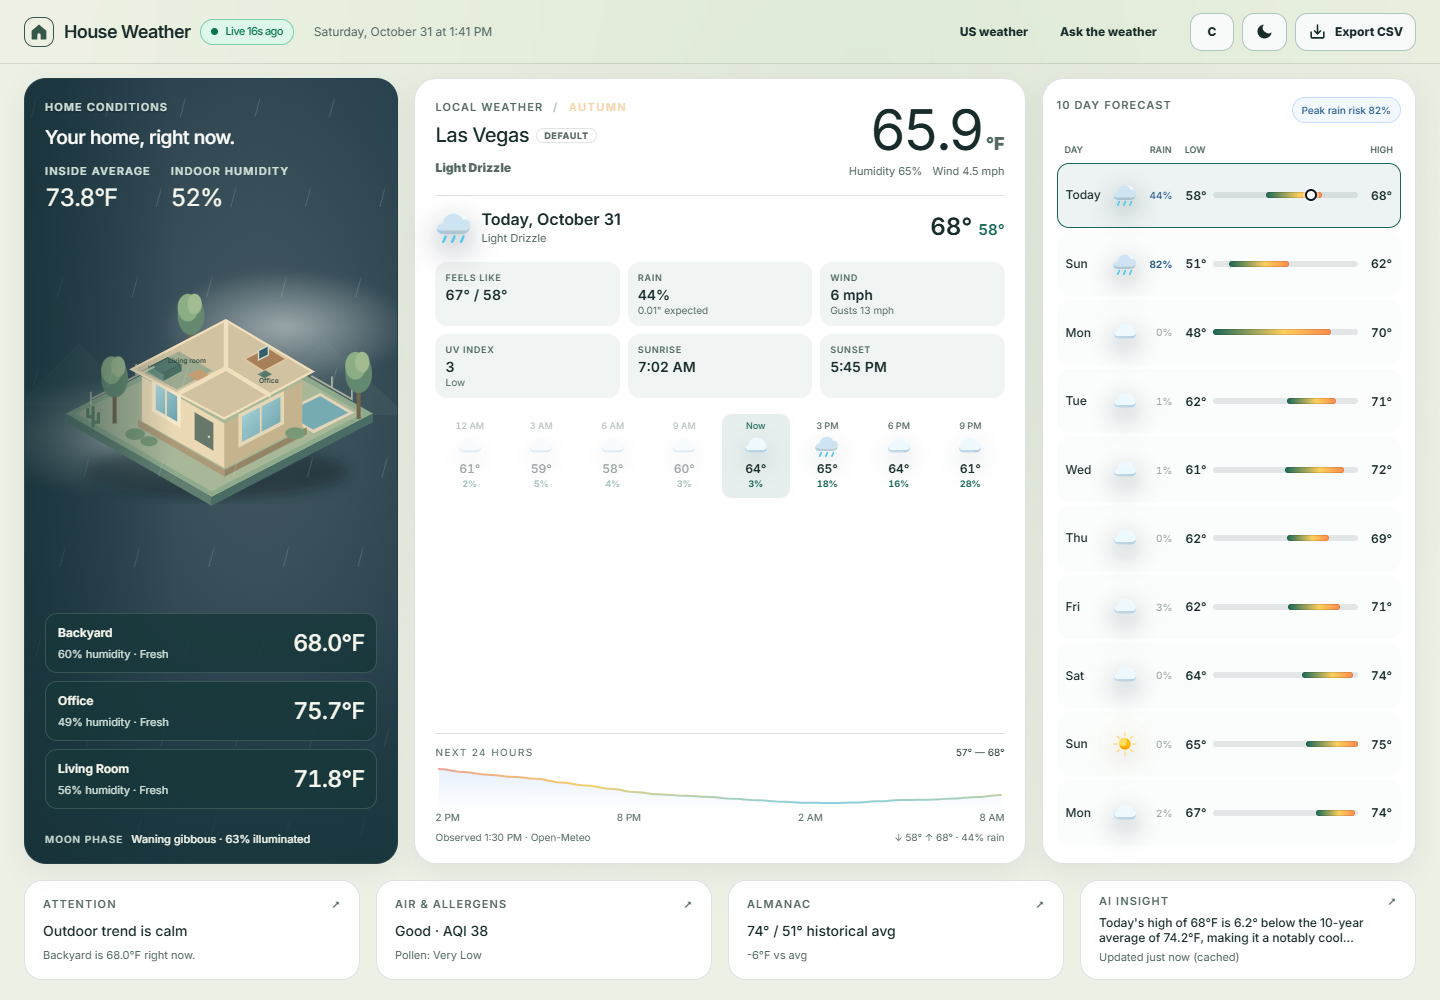
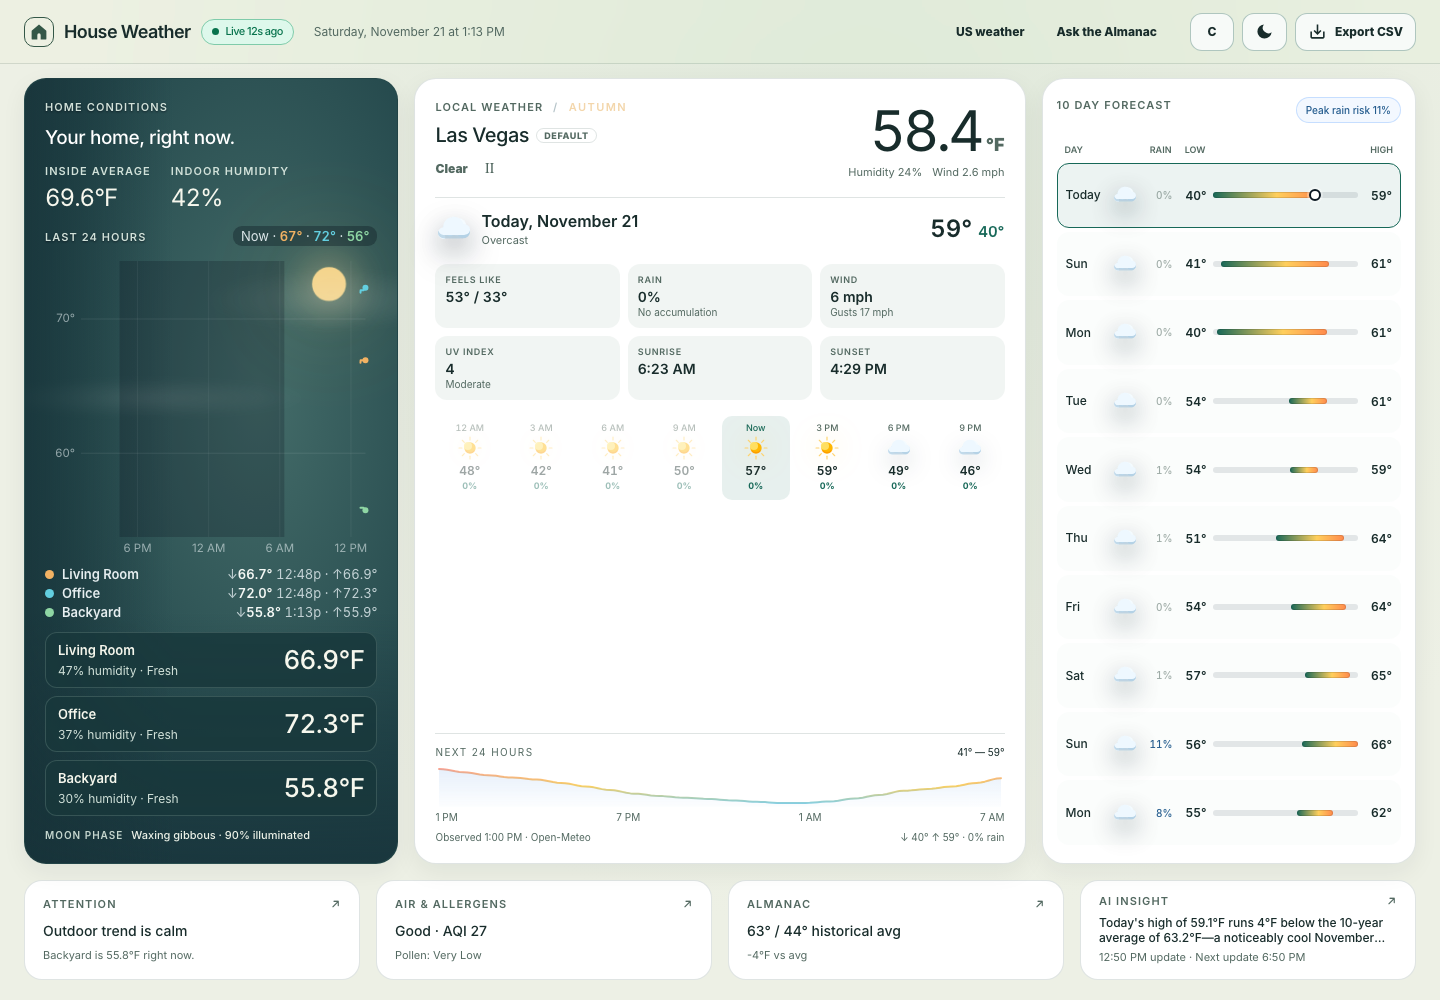
Refresh interface screenshots and clean up the test suite
Screenshots: recapture the desktop dark/light and mobile overview shots
from the current layout (live weather scene plus 24-hour sensor history;
the retired isometric house is gone). README caption updated.

Test suite: all 16 regression modules stay - they guard live behavior.
Fixes so the suite is hermetic and portable:
- test_desktop_overview: fulfill the same-origin /api/forecast proxy with
  the offline fixture (the browser no longer fetches Open-Meteo
  directly), fixing the eight setUp timeouts.
- test_house_atmosphere: UV assertions use text_content because the UV
  nodes are hidden in the overview (inner_text returns ''); test
  screenshots go to a temp dir instead of docs/.
- test_pollen_api / test_security_resilience: isolate the pollen disk
  cache and budget paths per test so a developer's persisted cache
  cannot turn fresh-fetch assertions into cache hits.
- Browser channel overridable via BROWSER_CHANNEL (msedge default kept
  for Windows); Windows-only screenshot/output paths replaced with
  portable temp dirs.
- Remove tools/check_weather_panel.py, a one-off Codex visualization
  dump with hardcoded Windows paths, superseded by the acceptance suite.

Assets: serve the manifest's android-chrome icons and the apple-touch
icon (copied into the image but missing from the STATIC_FILES allowlist,
so PWA icons 404ed); link apple-touch-icon from index.html. Delete
byte-identical duplicate favicons and the unused site.webmanifest from
[…]

diff --git a/index.html b/index.html
@@ -8,6 +8,7 @@
   <title>House Weather</title>
 
   <link rel="icon" type="image/png" sizes="32x32" href="favicon-32x32.png">
+  <link rel="apple-touch-icon" href="favicon/apple-touch-icon.png">
   <link rel="manifest" href="manifest.json">
   <link rel="preconnect" href="https://api.open-meteo.com" crossorigin>
   <link rel="preconnect" href="https://api.weather.gov" crossorigin>

diff --git a/test_house_atmosphere.py b/test_house_atmosphere.py
@@ -1,5 +1,6 @@
 """Acceptance checks for the house scene; forecast data is an offline fixture."""
 import os
+import tempfile
 import unittest
 from pathlib import Path
 from playwright.sync_api import sync_playwright
@@ -7,12 +8,14 @@ from playwright.sync_api import sync_playwright
 class HouseAtmosphereTests(unittest.TestCase):
     def test_live_scene_controls_and_responsive_layout(self):
         with sync_playwright() as p:
-            browser=p.chromium.launch(channel='msedge',headless=True)
+            browser=p.chromium.launch(channel=os.environ.get('BROWSER_CHANNEL', 'msedge'),headless=True)
             page=browser.new_page(viewport={'width':1440,'height':1200},reduced_motion='reduce',service_workers='block')
             page.route('https://**/*',lambda r:r.abort())
             page.route('**/api/readings*',lambda r:r.abort())
             page.route('**/api/history*',lambda r:r.abort())
+            page.route('**/api/forecast*',lambda r:r.abort())
             page.route('**/api/almanac/insights*',lambda r:r.fulfill(json={'insights':[]}))
+            page.route('**/api/forecast*',lambda r:r.abort())
             page.goto(os.environ.get('DASHBOARD_TEST_URL', 'http://localhost:8000') + '/?scene=snow&time=night',wait_until='domcontentloaded')
             page.evaluate('''() => {
               _lastWeather={lat:36.17,lon:-115.14,data:{timezone:'America/Los_Angeles',current:{weathercode:0,is_day:0}}};
@@ -44,30 +47,31 @@ class HouseAtmosphereTests(unittest.TestCase):
                         self.assertFalse(a['x']<b['x']+b['w'] and b['x']<a['x']+a['w'] and a['y']<b['y']+b['h'] and b['y']<a['y']+a['h'],f'Overlapping markers at {width}')
             page.set_viewport_size({'width':1440,'height':1200})
             page.evaluate("document.documentElement.dataset.theme='dark';window.scrollTo(0,0);document.querySelectorAll('.skeleton').forEach(e=>e.classList.remove('skeleton'));document.getElementById('weatherTemp').textContent='87.9';document.getElementById('weatherLocation').textContent='Las Vegas';document.getElementById('weatherCondition').textContent='Rain';")
-            Path('docs').mkdir(exist_ok=True)
-            page.screenshot(path='docs/house-atmosphere-desktop.png')
+            shots = Path(tempfile.mkdtemp(prefix='govee-atmosphere-'))
+            page.screenshot(path=str(shots / 'house-atmosphere-desktop.png'))
             page.set_viewport_size({'width':390,'height':1500})
             page.evaluate('window.scrollTo(0,0)')
-            page.screenshot(path='docs/house-atmosphere-mobile.png')
+            page.screenshot(path=str(shots / 'house-atmosphere-mobile.png'))
             browser.close()
 
     def test_uv_uses_local_current_hour_and_preserves_missing_values(self):
         with sync_playwright() as p:
-            browser=p.chromium.launch(channel='msedge',headless=True)
+            browser=p.chromium.launch(channel=os.environ.get('BROWSER_CHANNEL', 'msedge'),headless=True)
             page=browser.new_page(service_workers='block')
             page.route('https://**/*',lambda r:r.abort())
             page.route('**/api/almanac/insights*',lambda r:r.fulfill(json={'insights':[]}))
+            page.route('**/api/forecast*',lambda r:r.abort())
             page.goto(os.environ.get('DASHBOARD_TEST_URL', 'http://localhost:8000'),wait_until='domcontentloaded')
             fixture={'timezone':'America/Los_Angeles','current':{'time':'2026-10-09T10:00'},'hourly':{'time':['2026-10-09T11:00','2026-10-09T12:00','2026-10-09T13:00'],'uv_index':[2,6.4,8]},'daily':{'uv_index_max':[9]}}
             page.evaluate('(data)=>renderSunUv(data,new Date("2026-10-09T19:15:00Z"))',fixture)
-            self.assertEqual(page.locator('#sunUvValue').inner_text(),'6.4')
-            self.assertIn('High',page.locator('#sunUvLevel').inner_text())
+            self.assertEqual(page.locator('#sunUvValue').text_content(),'6.4')
+            self.assertIn('High',page.locator('#sunUvLevel').text_content())
             fixture['hourly']['uv_index'][1]=0
             page.evaluate('(data)=>renderSunUv(data,new Date("2026-10-09T19:15:00Z"))',fixture)
-            self.assertEqual(page.locator('#sunUvValue').inner_text(),'0.0')
+            self.assertEqual(page.locator('#sunUvValue').text_content(),'0.0')
             fixture['hourly']['uv_index'][1]=None
             page.evaluate('(data)=>renderSunUv(data,new Date("2026-10-09T19:15:00Z"))',fixture)
-            self.assertEqual(page.locator('#sunUvLevel').inner_text(),'Unavailable')
+            self.assertEqual(page.locator('#sunUvLevel').text_content(),'Unavailable')
             browser.close()
 
 if __name__=='__main__':unittest.main()

diff --git a/test_dashboard_ui.py b/test_dashboard_ui.py
@@ -8,7 +8,7 @@ class DashboardUITests(unittest.TestCase):
     @classmethod
     def setUpClass(cls):
         cls.pw = sync_playwright().start()
-        cls.browser = cls.pw.chromium.launch(channel='msedge', headless=True)
+        cls.browser = cls.pw.chromium.launch(channel=os.environ.get('BROWSER_CHANNEL', 'msedge'), headless=True)
 
     @classmethod
     def tearDownClass(cls):
@@ -38,7 +38,7 @@ class DashboardUITests(unittest.TestCase):
             route.fulfill(json={'answer': '<script>test</script> Forecast fixture answer.', 'sources': [{'label': 'Open-Meteo', 'url': 'https://open-meteo.com/'}, {'label': 'Unsafe', 'url': 'javascript:alert(1)'}], 'generated_at': '2026-09-07T12:00:00Z', 'location': 'Seattle', 'unit': 'C'})
         self.page.route('**/api/weather/ask', reply)
         self.page.evaluate("_lastWeather = {lat:47.6,lon:-122.3,locName:'Seattle',usedFallback:false}; unit='C'")
-        self.page.locator('[data-weather-question]').first.click()
+        self.page.get_by_role('button', name='Umbrella tomorrow?', exact=True).click()
         self.assertEqual(self.page.locator('#weatherQuestion').input_value(), 'Will I need an umbrella tomorrow?')
         self.page.locator('#weatherAskSubmit').click()
         self.page.locator('#weatherAskResult').wait_for(state='visible')
@@ -64,10 +64,13 @@ class DashboardUITests(unittest.TestCase):
         self.page.evaluate("_lastReadings.items[0].timestamp = '2000-01-01T00:00:00Z'; renderHomeOverview()")
         self.assertEqual(self.page.locator('#overviewIndoor').inner_text(), '—')
 
-    def test_old_ai_insights_are_explicitly_labeled(self):
+    def test_old_ai_insights_show_their_original_update_time(self):
         self.page.route('**/api/almanac/insights*', lambda r: r.fulfill(json={'insights': ['Historical fixture, not current weather.'], 'cached': True, 'stale': True, 'timestamp': '2020-01-01T12:00:00'}))
         self.page.evaluate('loadAlmanacInsights()')
-        self.assertIn('Out of date', self.page.locator('#aiInsightsTimestamp').inner_text())
+        stamp = self.page.locator('#aiInsightsTimestamp').inner_text()
+        self.assertIn('Jan 1', stamp)
+        self.assertIn('update', stamp)
+        self.assertNotIn('Just now', stamp)
 
     def test_mobile_panels_fill_available_width_without_internal_overflow(self):
         self.page.set_viewport_size({'width': 390, 'height': 900})
@@ -111,7 +114,7 @@ Both days will be **below 100°F**.
                 self.page.get_by_role('button', name='Ask the Almanac', exact=True).click()
             self.assertTrue(area.evaluate('(el) => el.scrollWidth <= el.clientWidth + 1'))
             self.assertEqual(area.locator('script,img,iframe,a').count(), 0)
-        self.page.locator('#weatherAskResult').screenshot(path='C:/Users/Thomas/AppData/Local/hermes/cache/govee-answer-mobile.png')
+        self.page.locator('#weatherAskResult').screenshot(path=os.path.join(os.environ.get('TEMP') or os.environ.get('TMPDIR') or '/tmp', 'govee-answer-mobile.png'))
 
     def test_question_error_is_recoverable(self):
         self.page.route('**/api/weather/ask', lambda r: r.fulfill(status=503, json={'error': 'AI service is temporarily unavailable.'}))

diff --git a/test_desktop_overview.py b/test_desktop_overview.py
@@ -10,7 +10,7 @@ class DesktopOverviewTests(unittest.TestCase):
     @classmethod
     def setUpClass(cls):
         cls.pw = sync_playwright().start()
-        cls.browser = cls.pw.chromium.launch(channel='msedge', headless=True)
+        cls.browser = cls.pw.chromium.launch(channel=os.environ.get('BROWSER_CHANNEL', 'msedge'), headless=True)
 
     @classmethod
     def tearDownClass(cls):
@@ -38,6 +38,7 @@ class DesktopOverviewTests(unittest.TestCase):
         self.page.route('https://api.open-meteo.com/v1/forecast?*', lambda route: route.fulfill(json=weather))
         self.page.route('**/api/**', lambda route: route.fulfill(json={'items':[], 'series':{}, 'insights':[]}))
         self.page.route('**/api/readings', lambda route: route.fulfill(json=readings))
+        self.page.route('**/api/forecast*', lambda route: route.fulfill(json=weather))
         self.page.route('**/api/almanac/insights*', lambda route: route.fulfill(json={'insights':['Forecast fixture: a calm morning, warmer this afternoon.'], 'timestamp':timestamp}))
         self.page.goto(os.environ.get('DASHBOARD_TEST_URL', 'http://localhost:8000'), wait_until='domcontentloaded')
         self.page.wait_for_function("() => document.querySelectorAll('#weatherUpcoming [data-day]').length === 10 && document.querySelectorAll('.house-sensor').length === 3")

diff --git a/test_autumn_cottage.py b/test_autumn_cottage.py
@@ -6,10 +6,11 @@ from playwright.sync_api import sync_playwright
 class SeasonalWeatherTests(unittest.TestCase):
     def test_conditions_seasons_motion_and_responsive_layout(self):
         with sync_playwright() as p:
-            browser = p.chromium.launch(channel='msedge', headless=True)
+            browser = p.chromium.launch(channel=os.environ.get('BROWSER_CHANNEL', 'msedge'), headless=True)
             page = browser.new_page(viewport={'width':1440,'height':1100}, service_workers='block')
             page.route('https://**/*', lambda r:r.abort())
             page.route('**/api/almanac/insights*', lambda r:r.fulfill(json={'insights':[]}))
+            page.route('**/api/forecast*', lambda r:r.abort())
             page.goto(os.environ.get('DASHBOARD_TEST_URL', 'http://localhost:8000'), wait_until='domcontentloaded')
             for code, scene in [(0,'clear'),(3,'cloud'),(45,'fog'),(63,'rain'),(73,'snow'),(85,'snow'),(86,'snow'),(95,'storm')]:
                 page.evaluate('(code)=>applyWeatherScene(code, {}, {is_day:1,time:"2026-09-23T12:00"})', code)

diff --git a/test_pollen_api.py b/test_pollen_api.py
@@ -1,5 +1,6 @@
 import os
 import sys
+import tempfile
 import types
 import unittest
 from unittest.mock import Mock, patch
@@ -34,6 +35,16 @@ class PollenApiTests(unittest.TestCase):
         govee_server._pollen_cache.clear()
         govee_server._pollen_request_times.clear()
         govee_server._pollen_client_requests.clear()
+        # The pollen disk cache and budget persist across restarts; keep tests
+        # off whatever the developer's data directory happens to contain.
+        self._tmp = tempfile.TemporaryDirectory()
+        self.addCleanup(self._tmp.cleanup)
+        for name, filename in (("_pollen_disk_cache_path", "pollen-cache.json"),
+                               ("_pollen_budget_path", "pollen-budget.json")):
+            patcher = patch.object(govee_server, name, os.path.join(self._tmp.name, filename))
+            patcher.start()
+            self.addCleanup(patcher.stop)
+        govee_server._pollen_inflight.clear()
 
     def test_requires_server_api_key(self):
         with patch.dict(os.environ, {}, clear=False):

diff --git a/test_weather_alert_layout.py b/test_weather_alert_layout.py
@@ -6,10 +6,11 @@ from playwright.sync_api import sync_playwright
 class WeatherAlertLayoutTests(unittest.TestCase):
  def test_warning_text_stays_inside_panels(self):
   with sync_playwright() as p:
-   browser=p.chromium.launch(channel='msedge',headless=True)
+   browser=p.chromium.launch(channel=os.environ.get('BROWSER_CHANNEL', 'msedge'),headless=True)
    page=browser.new_page(viewport={'width':1440,'height':1200},reduced_motion='reduce',service_workers='block')
    page.route('https://**/*',lambda r:r.abort())
    page.route('**/api/almanac/insights*',lambda r:r.fulfill(json={'insights':[]}))
+   page.route('**/api/forecast*',lambda r:r.abort())
    page.goto(os.environ.get('DASHBOARD_TEST_URL', 'http://localhost:8000'),wait_until='domcontentloaded')
    page.evaluate('''() => {
     const root=document.getElementById('weatherAlerts');root.replaceChildren();

diff --git a/check_dashboard_layout.py b/check_dashboard_layout.py
@@ -1,12 +1,15 @@
 """Real browser layout/interaction checks; no mocked telemetry or AI calls."""
 import json
+import os
+import tempfile
 from pathlib import Path
 from playwright.sync_api import sync_playwright
 
-out = Path('C:/Users/Thomas/AppData/Local/hermes/cache/govee-review')
+out = Path(tempfile.mkdtemp(prefix='govee-layout-'))
+print(f'Layout screenshots: {out}')
 out.mkdir(parents=True, exist_ok=True)
 with sync_playwright() as p:
-    browser = p.chromium.launch(channel='msedge', headless=True)
+    browser = p.chromium.launch(channel=os.environ.get('BROWSER_CHANNEL', 'msedge'), headless=True)
     context = browser.new_context(service_workers='block', reduced_motion='reduce')
     page = context.new_page()
     errors = []

diff --git a/test_security_resilience.py b/test_security_resilience.py
@@ -73,6 +73,7 @@ class ResilienceTests(unittest.TestCase):
             "INSIGHTS_CACHE_FILE": str(self.directory / "insights.json"),
             "_insights_budget_path": str(self.directory / "insights-budget.json"),
             "_pollen_budget_path": str(self.directory / "pollen-budget.json"),
+            "_pollen_disk_cache_path": str(self.directory / "pollen-cache.json"),
             "_insights_active": False, "_insights_error": None, "_insights_attempts": deque(),
             "_pollen_request_times": deque(), "_pollen_cache": {}, "_pollen_inflight": set(), "_pollen_client_requests": {},
             "_readings_cache": None, "_readings_refreshing": False, "_readings_last_attempt": float("-inf"),

diff --git a/govee_server.py b/govee_server.py
@@ -100,6 +100,8 @@ register_weather_questions(app, ANTHROPIC_MODEL, os.path.join(DATA_DIR, "almanac
 STATIC_FILES = {
     "index.html", "app.js", "style.css", "service-worker.js", "manifest.json",
     "favicon.ico", "favicon-16x16.png", "favicon-32x32.png",
+    "favicon/android-chrome-192x192.png", "favicon/android-chrome-512x512.png",
+    "favicon/apple-touch-icon.png",
     "assets/dashboard-tabs.css", "assets/desktop-overview.css", "assets/desktop-overview.js",
     "assets/autumn-cabin.png", "assets/d3-array.min.js", "assets/d3-geo.min.js",
     "assets/sensor-living-room.svg", "assets/sensor-office.svg", "assets/sensor-backyard.svg",

diff --git a/test_moon_ui.py b/test_moon_ui.py
@@ -7,7 +7,7 @@ from playwright.sync_api import sync_playwright
 class MoonTests(unittest.TestCase):
     def test_phase_visibility_and_tooltip(self):
         with sync_playwright() as p:
-            browser=p.chromium.launch(channel='msedge',headless=True)
+            browser=p.chromium.launch(channel=os.environ.get('BROWSER_CHANNEL', 'msedge'),headless=True)
             page=browser.new_page(viewport={'width':1440,'height':1000},service_workers='block')
             page.route('https://**/*',lambda r:r.abort())
             page.route('**/api/**',lambda r:r.fulfill(json={'items':[],'series':{},'insights':[]}))

diff --git a/test_dashboard_resilience.py b/test_dashboard_resilience.py
@@ -8,7 +8,7 @@ class DashboardResilienceTests(unittest.TestCase):
     @classmethod
     def setUpClass(cls):
         cls.playwright = sync_playwright().start()
-        cls.browser = cls.playwright.chromium.launch(channel="msedge", headless=True)
+        cls.browser = cls.playwright.chromium.launch(channel=os.environ.get("BROWSER_CHANNEL", "msedge"), headless=True)
 
     @classmethod
     def tearDownClass(cls):
